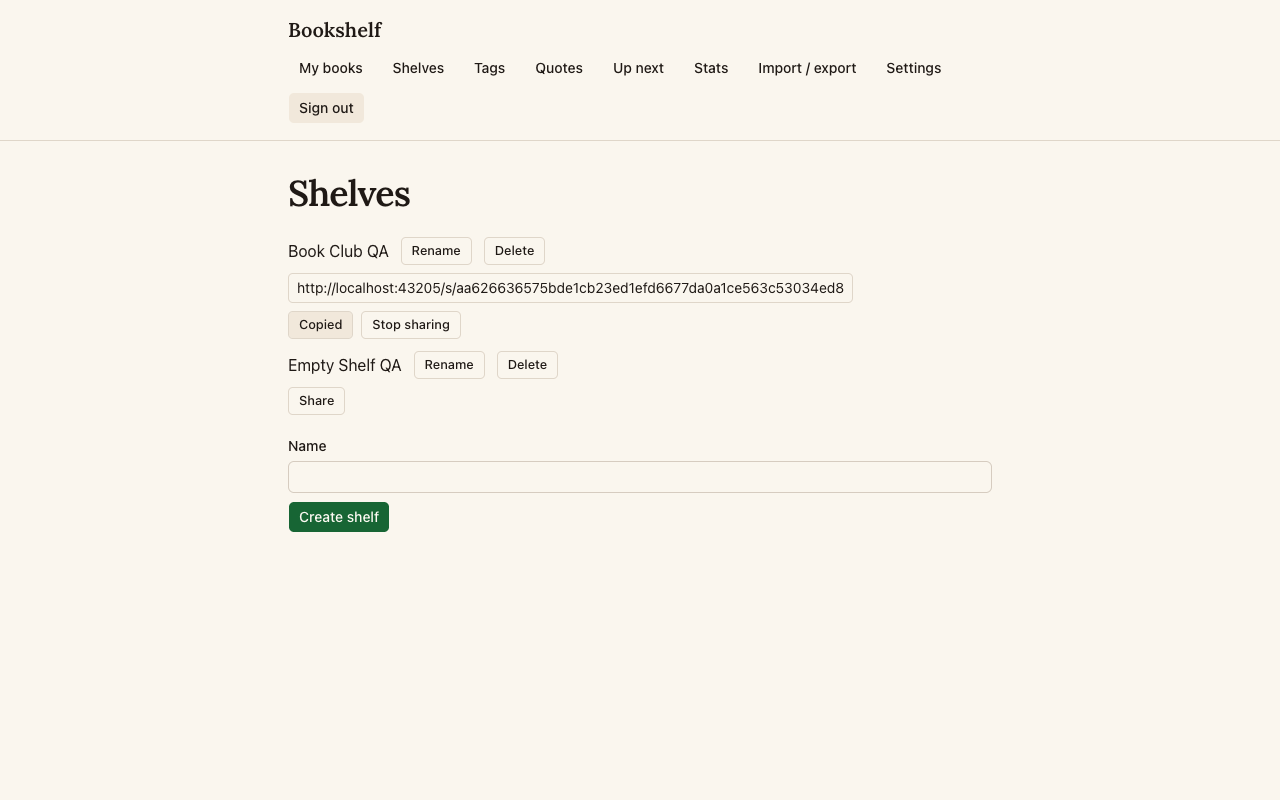
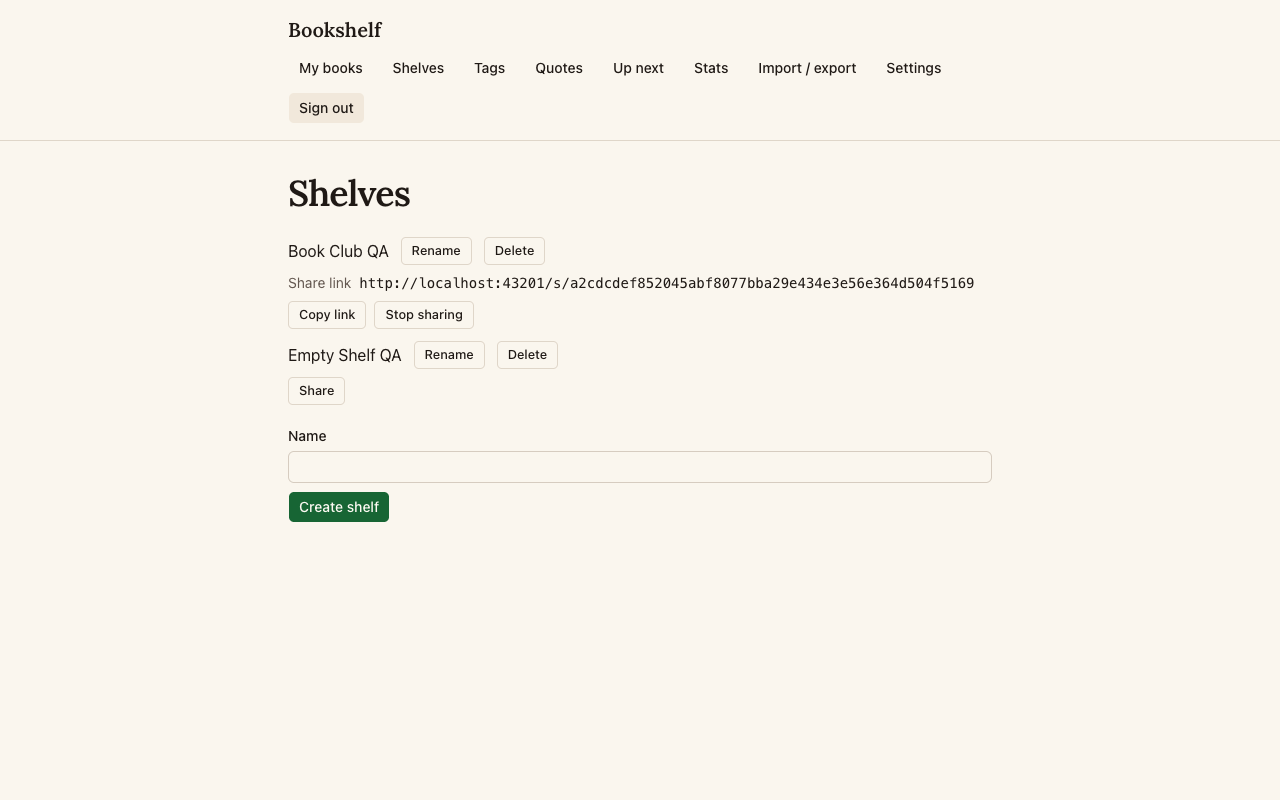
fix(F083): show the share link as a labelled one-line link, not a fake input
Drop the hand-made bordered span. Add a visible "Share link" label and
render the URL as a truncated <a aria-label="Share link">, with Copy link
and Stop sharing in their own row. A read-only Input was not used: the
locked e2e reads the link with getByText + textContent.

Changed region(s): [[0.2188, 0.3438, 0.75, 0.5625], [0.2188, 0.5938, 0.3125, 0.6875]]

diff --git a/components/share-shelf.tsx b/components/share-shelf.tsx
@@ -23,8 +23,17 @@ export function ShareShelf({ link, shareAction, stopAction }: Props) {
     );
   }
   return (
-    <div className="flex flex-wrap items-center gap-2">
-      <span className="min-w-0 break-all rounded-md border px-2 py-1 text-sm">{link}</span>
+    <div className="flex min-w-0 flex-col gap-2">
+      <div className="flex min-w-0 items-center gap-2">
+        <span className="text-sm text-muted-foreground">Share link</span>
+        <a
+          href={link}
+          aria-label="Share link"
+          className="min-w-0 flex-1 truncate font-mono text-sm underline-offset-4 hover:underline"
+        >
+          {link}
+        </a>
+      </div>
       <div className="flex gap-2">
         <Button
           type="button"

diff --git a/harness/evidence/F083.md b/harness/evidence/F083.md
@@ -1,21 +1,22 @@
 <!-- written by harness/hooks/verifier-evidence.py; do not edit -->
-- Verified at: 2026-11-14T16:17:20 on 9df0656 plus working tree
-- Verifier run: a28b7c22e77986c48
+- Verified at: 2026-11-14T16:31:30 on 2091e2f plus working tree
+- Verifier run: a076da83326bcfbf9
 
 VERDICT: PASS
 FEATURE: F083
 CRITERIA:
-- CRITERION 1: PASS — On /shelves each shelf has a "Share" button. Clicking it showed `http://localhost:43205/s/aa6266…4ed8`, a 48-hex token (24 random bytes), with "Copy link" and "Stop sharing". Copy link changed to "Copied", and the clipboard held the exact URL. At 1280px and at 375px both buttons sit on the same row (top=311 and top=371) with no sideways overflow (scrollWidth equals clientWidth: 1280 and 375).
-- CRITERION 2: PASS — In a fresh, signed-out browser context, /s/<token> returned 200. It showed the h1 "Book Club QA" and two books with title, author and status, a "Rating: 4 stars" line on the rated book, and a cover image that loaded through a signed URL. The page had no buttons, inputs or forms. The header's only link is "Bookshelf" to "/". In the same context, /books redirected to /sign-in.
-- CRITERION 3: PASS — Stop sharing put the "Share" button back, and the old link then returned 404 with "Shelf not found / This link was stopped or never existed." Sharing again made a new token (78a6bfea…1105) that loads the shelf, while the old token stays 404.
-- CRITERION 4: PASS — The signed-out page renders only through `rpc("shared_shelf")` on a client with no cookies or session (`createAnonClient`). That function is `security definer` with an empty search_path and returns only shelf_name, book_id, title, author, status, rating, cover_path and added_at. None of the three M8 migrations add or change policies on books, notes, quotes, reviews or tags. I confirmed this by reading the SQL, not by sending a direct anonymous request (see PROBLEMS).
+- CRITERION 1: PASS — On /shelves, "Book Club QA" had a Share button. Clicking it showed a "Share link" label and a link (`a[aria-label="Share link"]`) to http://localhost:43201/s/<48-char hex token>, with Copy link and Stop sharing on their own row below. Copy link put the full URL in the clipboard, and the button changed to "Copied".
+- CRITERION 2: PASS — In a new browser context with no cookies, /s/<token> returned 200. It showed the h1 "Book Club QA" and two books with title, author and status badge; Middlemarch also showed "Rating: 4 stars" and its cover image loaded. The page had no buttons or form fields, and its only link was the "Bookshelf" logo pointing to /.
+- CRITERION 3: PASS — After Stop sharing, the old link returned 404 with "Shelf not found / This link was stopped or never existed." Sharing again gave a new token (a2cd… became acf6…). The new link returned 200, and the old one still returned 404.
+- CRITERION 4: PASS (verified by reading code, not a live probe) — The migration's only anonymous read path is the security definer `shared_shelf(text)`. It returns shelf_name, book_id, title, author, status, rating, cover_path and added_at, and anon may execute it. The branch adds no policy or grant changes on books, notes, quotes, reviews or tags. /s/[token] reads through `createAnonClient()` (no cookies). My live anon-key REST probe was blocked by auto mode, so I did not check this over HTTP.
 EVIDENCE:
-- Step 1: Share → link plus "Copied" / "Stop sharing" at 1280px (/Users/huynguyen/Desktop/harness-web-trial-loop/F083/harness/evidence/F083/step-01.png). At 375px the link wraps over two lines and "Copy link" and "Stop sharing" stay together on one row (/Users/huynguyen/Desktop/harness-web-trial-loop/F083/harness/evidence/F083/step-01-mobile.png).
-- Step 2: signed-out view of the shared shelf (/Users/huynguyen/Desktop/harness-web-trial-loop/F083/harness/evidence/F083/step-02.png, /Users/huynguyen/Desktop/harness-web-trial-loop/F083/harness/evidence/F083/step-02-mobile.png). The `main` text read: "Book Club QA / Emma QA / Jane Austen / Want to read / Middlemarch QA / George Eliot / Rating: 4 stars / Finished". The page's only link is `/|Bookshelf`. It had no button or form elements and no console errors.
-- Step 3: the stopped link gives 404 and "Shelf not found" (/Users/huynguyen/Desktop/harness-web-trial-loop/F083/harness/evidence/F083/step-03.png). The shelf row after sharing again is in /Users/huynguyen/Desktop/harness-web-trial-loop/F083/harness/evidence/F083/step-03-reshared.png. The new token gives 200 and the old token still gives 404.
-- Edge cases: a made-up token (`0123…cdef`, 48 hex) gives 404 and "Shelf not found" (/Users/huynguyen/Desktop/harness-web-trial-loop/F083/harness/evidence/F083/step-03-fake.png). An injection-like token `not-a-token' or 1=1` gives 404 and "Shelf not found". `/s/` gives 404. After a reload, the button resets to "Copy link".
-- Step 4: the read path and the SQL are in `/Users/huynguyen/Desktop/harness-web-trial-loop/F083/supabase/migrations/20261114110000_shelf_shares.sql`. The new shared link at 375px has no overflow (/Users/huynguyen/Desktop/harness-web-trial-loop/F083/harness/evidence/F083/step-04-mobile.png).
-- Console and server: browser console showed only HMR and DevTools info messages, no errors. No errors in the server log.
-- Tests: `./scripts/e2e.sh e2e/F083-share-shelf.spec.ts` passed 3 of 3 (share and read-only view, stop and reshare, made-up token). `lib/share.test.ts` unit-tests token validation and row mapping.
+- Step 1 (desktop 1280, after Stop sharing then Share): the "Share link" label and the full URL sit on one line, with Copy link and Stop sharing in their own row below. There is no bordered field. (harness/evidence/F083/step-01.png)
+- Step 1, clipboard: `navigator.clipboard.readText()` returned "http://localhost:43201/s/a2cdcdef852045abf8077bba29e434e3e56e364d504f5169", the same as the link's href.
+- Step 1 (mobile 375x812): the link is on one line, cut off with an ellipsis ("http://localhost:43201/s/a2cdcd…"). Measured: link height 20px, white-space nowrap, text-overflow ellipsis, scrollWidth 615 vs clientWidth 272, page scrollWidth 375 = viewport width, so no sideways scroll. The button shows "Copied" because I clicked Copy link just before this shot. (harness/evidence/F083/step-01-mobile.png)
+- Step 2 (signed out): what I saw is in criterion 2. No console errors, 0 cookies. (harness/evidence/F083/step-02.png)
+- Step 3: the stopped link shows the not-found page (harness/evidence/F083/step-03.png). After sharing again, the row shows the new link http://localhost:43201/s/acf6c6764ca7d45f3a2c626701cd0ada31d1c2b41ebe22be with Copy link and Stop sharing. (harness/evidence/F083/step-03-reshared.png)
+- Edge cases: these all returned 404: a made-up token of 48 zeros, /s/ with no token, and an injection-style token `abc' or 1=1`. After a reload of /shelves, the shared link was still shown. The browser console and the server log had no errors or warnings.
+- Test coverage: `./scripts/e2e.sh e2e/F083-share-shelf.spec.ts` passed 3/3 with the new markup (share and anonymous read-only view, stop and reshare gives a new token, made-up token is not found). /Users/huynguyen/Desktop/harness-web-trial-loop/F083/lib/share.test.ts unit-tests token validation and row mapping.
 PROBLEMS:
-- (Not blocking) For criterion 4, I could not check at runtime that a direct anonymous request is denied. A curl probe that loaded the project's .env keys to call Supabase REST as anon (tables, the RPC, and `cover_is_shared`) was blocked by the auto-mode permission classifier. My verdict on that criterion therefore relies on reading the migrations plus seeing the signed-out page work through the RPC. If you want a live check, allow that probe or add an integration test that asserts anonymous `select` on books, shelf_shares, notes, quotes, reviews and tags returns no rows.
+- None blocking.
+- Note: Criterion 4 was not checked against the running API. The anon-key curl probe was blocked by auto mode; the e2e spec only shows that anon reads work through the RPC, not that anon is denied direct table reads.

diff --git a/harness/log/F083.md b/harness/log/F083.md
@@ -1,3 +1,9 @@
+## 2026-11-14 19:20 · passing
+- Did: components/share-shelf.tsx shows the share link as a visible "Share link" label plus a one-line truncated <a href aria-label="Share link"> (no hand-made bordered field, no break-all), with Copy link and Stop sharing in their own row. Fixes the designer's three complaints (fake-input look, missing label, wrapping on phones).
+- Why not the read-only Input: it would change what the locked e2e reads (textContent to inputValue); the human chose the link instead and left the spec alone.
+- Verified by: verifier PASS (4/4; fresh step-01, step-01-mobile, step-03-reshared; 375px one line, no sideways scroll; clipboard holds the full URL), check.sh green (F083 e2e 3/3 incl. expectAccessible).
+- Next session should know: criterion 4 still rests on reading the SQL; no live anon-denied probe.
+
 ## 2026-11-14 18:40 · passing
 - Did: components/share-shelf.tsx wraps Copy link and Stop sharing in one flex group, so a long link no longer pushes Stop sharing onto its own line (checked at 1280px and 375px).
 - Not done, needs a human: the read-only Input with aria-label "Share link" is still blocked on the locked e2e linkText locator (getByText + textContent). Approve changing it to getByRole('textbox', { name: 'Share link' }).inputValue(), or drop that part of the finding.
